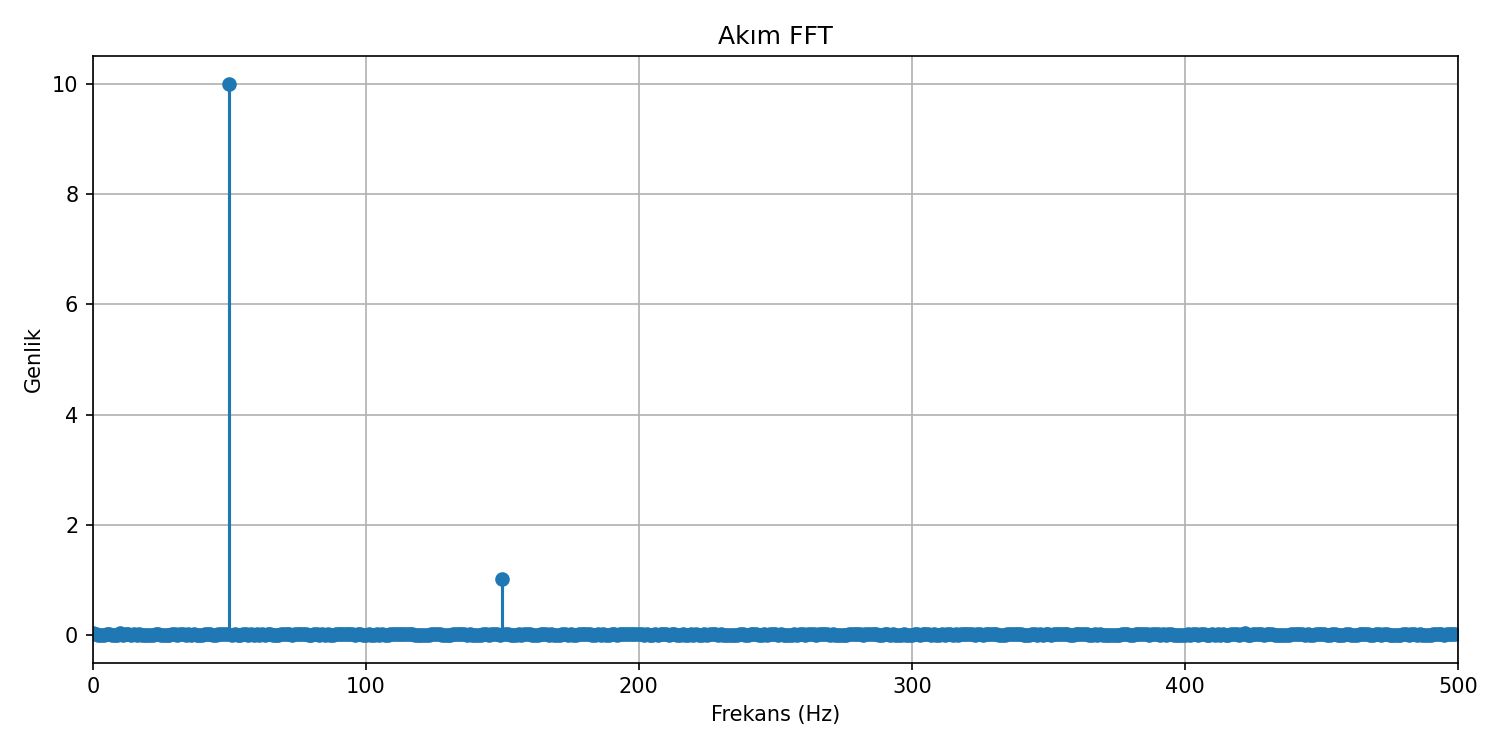
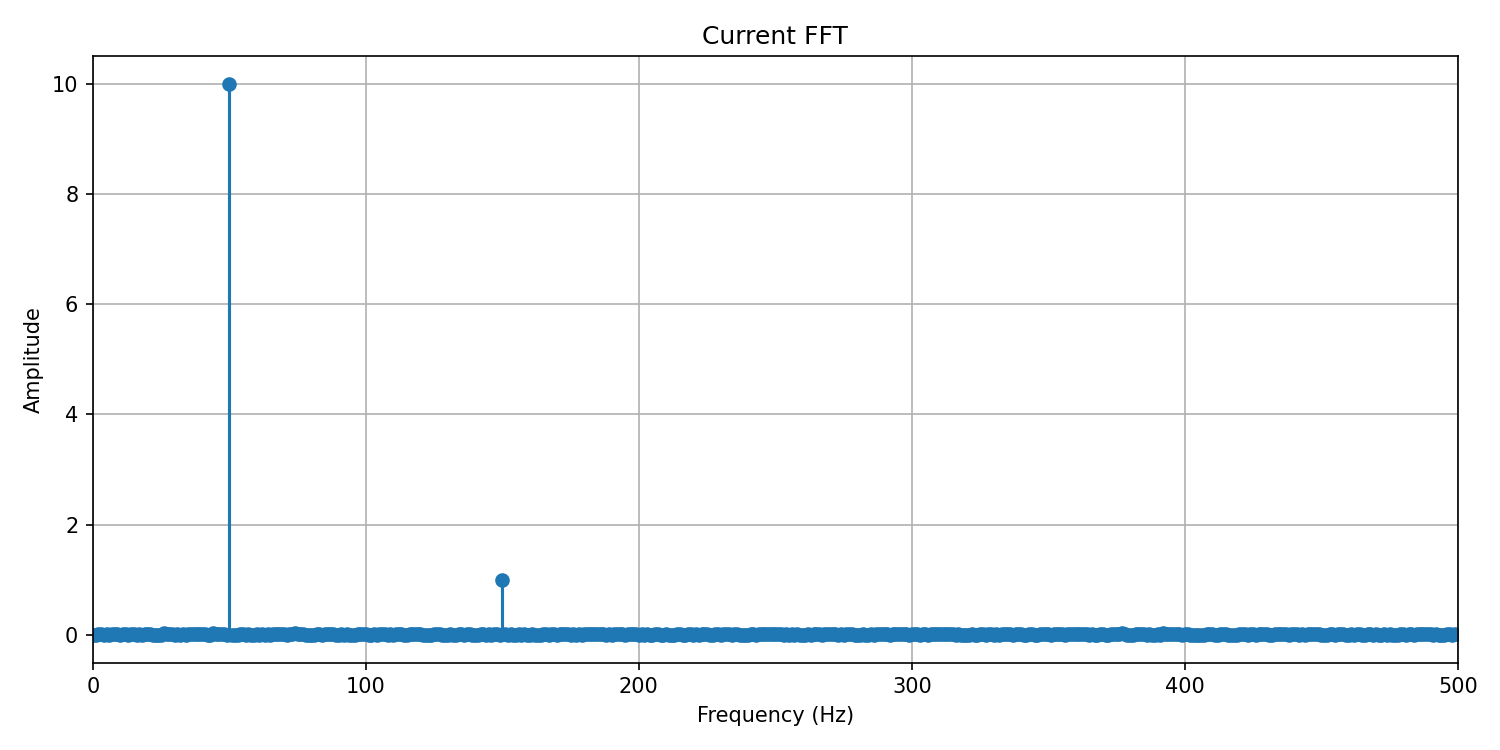
Updated plots with English titles and code changes

Changed region(s): [[0.46, 0.92, 0.5827, 0.9813], [0.0, 0.4293, 0.0307, 0.552], [0.46, 0.0307, 0.552, 0.0613]]

diff --git a/src/visualize.py b/src/visualize.py
@@ -12,11 +12,11 @@ def plot_signals(t, v, i, save_fig=False):
     save_fig=True olursa figures klasörüne PNG kaydeder.
     """
     plt.figure(figsize=(10, 5))
-    plt.plot(t, v, label="Gerilim (V)")
-    plt.plot(t, i, label="Akım (A)")
-    plt.title("Gerilim ve Akım")
-    plt.xlabel("Zaman (s)")
-    plt.ylabel("Genlik")
+    plt.plot(t, v, label="Voltage (V)")
+    plt.plot(t, i, label="Current (A)")
+    plt.title("Voltage and Current")
+    plt.xlabel("Time (t)")
+    plt.ylabel("Amplitude")
     plt.legend()
     plt.grid(True)
     plt.tight_layout()
@@ -24,7 +24,7 @@ def plot_signals(t, v, i, save_fig=False):
     if save_fig:
         filepath = os.path.join(FIGURE_DIR, "signals.png")
         plt.savefig(filepath, dpi=150)
-        print(f"[INFO] Grafik kaydedildi: {filepath}")
+        print(f"[INFO] Graph saved: {filepath}")
     else:
         plt.show()
 
@@ -35,10 +35,10 @@ def plot_power(t, v, i, save_fig=False):
     """
     p = v * i
     plt.figure(figsize=(10, 5))
-    plt.plot(t, p, label="Anlık Güç (W)", color="red")
-    plt.title("Anlık Güç")
-    plt.xlabel("Zaman (s)")
-    plt.ylabel("Güç (W)")
+    plt.plot(t, p, label="Instantenous Power (W)", color="red")
+    plt.title("Instantenous Power")
+    plt.xlabel("Time (t)")
+    plt.ylabel("Power (W)")
     plt.legend()
     plt.grid(True)
     plt.tight_layout()
@@ -46,6 +46,6 @@ def plot_power(t, v, i, save_fig=False):
     if save_fig:
         filepath = os.path.join(FIGURE_DIR, "power.png")
         plt.savefig(filepath, dpi=150)
-        print(f"[INFO] Grafik kaydedildi: {filepath}")
+        print(f"[INFO] Graph saved: {filepath}")
     else:
         plt.show()

diff --git a/main.py b/main.py
@@ -25,20 +25,20 @@ def main():
     THD_i = compute_thd(i, fs)
 
     # Sonuçları yazdır
-    print("=== Güç Analizörü Sonuçları ===")
+    print("=== Power Analyzer Results ===")
     print(f"Vrms: {Vrms:.2f} V")
     print(f"Irms: {Irms:.2f} A")
-    print(f"Aktif Güç (P): {P:.2f} W")
-    print(f"Güç Faktörü (PF): {PF:.3f}")
-    print(f"Faz Farkı: {phi_deg:.2f}°")
-    print(f"Gerilim THD: {THD_v*100:.2f}%")
-    print(f"Akım THD: {THD_i*100:.2f}%")
+    print(f"Active Power (P): {P:.2f} W")
+    print(f"Power Factor (PF): {PF:.3f}")
+    print(f"Phase Difference: {phi_deg:.2f}°")
+    print(f"Voltage THD: {THD_v*100:.2f}%")
+    print(f"Current THD: {THD_i*100:.2f}%")
 
     # Grafikler
     plot_signals(t, v, i, save_fig=True)
     plot_power(t, v, i, save_fig=True)
-    plot_fft(v, fs, title="Gerilim FFT", save_fig=True, filename="fft_voltage.png")
-    plot_fft(i, fs, title="Akım FFT", save_fig=True, filename="fft_current.png")
+    plot_fft(v, fs, title="Voltage FFT", save_fig=True, filename="fft_voltage.png")
+    plot_fft(i, fs, title="Current FFT", save_fig=True, filename="fft_current.png")
 
 if __name__ == "__main__":
     main()

diff --git a/src/fft_analysis.py b/src/fft_analysis.py
@@ -42,14 +42,14 @@ def compute_thd(signal, fs, f0=50, nharmonics=5):
     THD = np.sqrt(harmonic_powers) / V1 if V1 != 0 else 0
     return THD
 
-def plot_fft(signal, fs, title="FFT Spektrumu", save_fig=False, filename="fft.png"):
+def plot_fft(signal, fs, title="FFT Spectrum", save_fig=False, filename="fft.png"):
     freqs, spectrum = compute_fft(signal, fs)
 
     plt.figure(figsize=(10,5))
     plt.stem(freqs, spectrum, basefmt=" ")
     plt.title(title)
-    plt.xlabel("Frekans (Hz)")
-    plt.ylabel("Genlik")
+    plt.xlabel("Frequency (Hz)")
+    plt.ylabel("Amplitude")
     plt.xlim(0, 500)  # 0-500 Hz aralığını göster
     plt.grid(True)
     plt.tight_layout()
@@ -57,6 +57,6 @@ def plot_fft(signal, fs, title="FFT Spektrumu", save_fig=False, filename="fft.pn
     if save_fig:
         filepath = os.path.join(FIGURE_DIR, filename)
         plt.savefig(filepath, dpi=150)
-        print(f"[INFO] FFT grafiği kaydedildi: {filepath}")
+        print(f"[INFO] FFT graph saved: {filepath}")
     else:
         plt.show()

diff --git a/src/generate_signals.py b/src/generate_signals.py
@@ -56,6 +56,6 @@ def generate_signals(
 if __name__ == "__main__":
     # Hem harmonik hem gürültü eklenmiş test
     t, v, i = generate_signals(add_harmonics=True, add_noise=True, save_csv=True)
-    print("Zaman örnekleri:", t[:5])
-    print("Gerilim örnekleri:", v[:5])
-    print("Akım örnekleri:", i[:5])
+    print("Time Samples:", t[:5])
+    print("Voltage Samples:", v[:5])
+    print("Current Samples:", i[:5])
